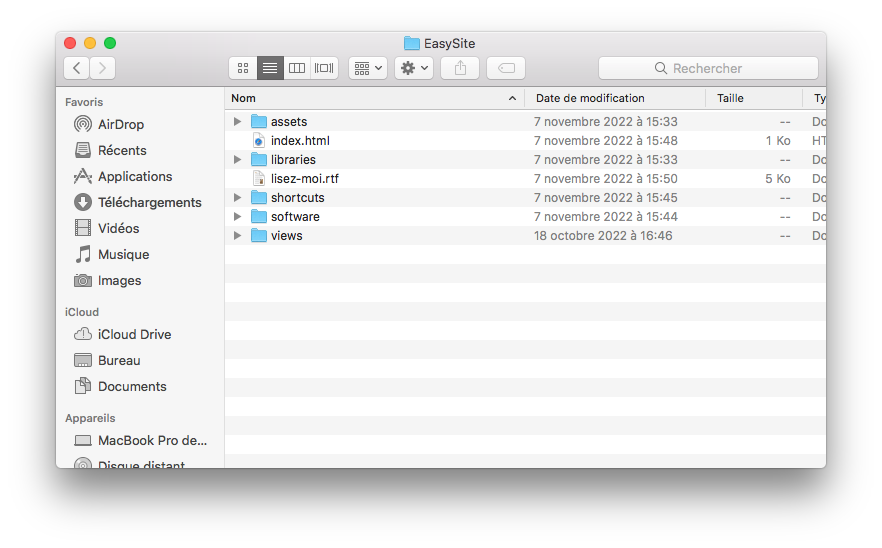
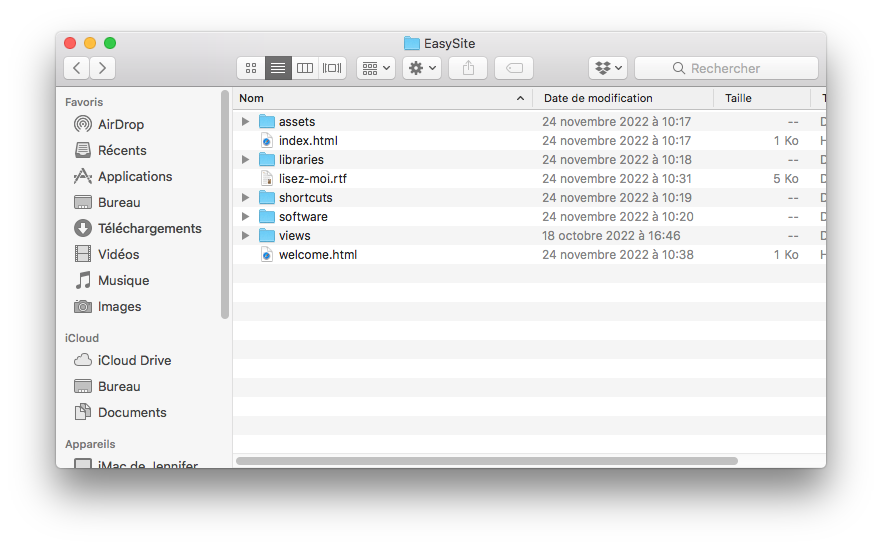
Update official website

diff --git a/index.html b/index.html
@@ -32,32 +32,36 @@
             <h2>Le futur du web</h2>
             <img src="assets/img/banniere.png" id="homeImage">
             <div></div>
-            <a href="https://github.com/enioaiello/easysite/" target="_blank" class="button" title="Consulter le Github">Voir sur Github</a>
-            <p>Si vous avez besoins d'aide, cliquez <a href="https://discord.gg/h5y2bZwH2B" target="_blank" class="link" title="Rejoindre le Discord">ici</a> pour rejoindre le Discord et obtenir de l'aide auprès de la communauté !</p>
+            <a href="https://github.com/enioaiello/easysite/" target="_blank" class="button" title="Consulter le Github">Voir sur Github</a> <a href="views/download.html" class="button" title="Télécharger maintenant">Télécharger</a> <a href="views/support.html" class="button" title="Contacter le support et obtenir de l'aide">Support</a>
             <hr>
             <h2>Template de base avancée</h2>
             <h3>Disponible pour Windows, macOS et Linux !</h3>
             <img src="assets/img/image1.png">
+            <h4>Avec des dossiers complets</h4>
             <hr>
             <h2>Logiciels de développeurs web intégrés</h2>
             <h3>Disponible uniquement pour Windows !</h3>
             <img src="assets/img/image2.png">
+            <h4>Avec FastInstall pour installer automatiquement les logiciels</h4>
             <hr>
             <h2>Arborescence de fichiers simple</h2>
             <h3>Réorganisez ou utilisez cette arborescence comme bon vous semble !</h3>
             <img src="assets/img/image3.png">
+            <h4>Avec une arborescence complète et accessible de tous</h4>
             <hr>
             <h2>Bibliothèques intégrées</h2>
             <h3>Pour coder en toute simplicité !</h3>
             <img src="assets/img/image4.png">
+            <h4>Pour avoir du code déjà écrit</h4>
             <hr>
             <h2>Liens rapides intégrés</h2>
             <h3>Pour avoir accès à plus d'outils plus simplement !</h3>
-            <img src="assets/img/non-defini.png" class="unavailable">
+            <img src="assets/img/image5.png">
+            <h4>Des outils pour apprendre le Web !</h4>
             <hr>
             <h2>Vous êtes prêt ?</h2>
             <h3>Téléchargez ce projet libre et disponible pour tous !</h3>
-            <a href="views/download.html" target="_blank"class="button" title="Télécharger maintenant">Télécharger</a>
+            <a href="views/download.html" class="button" title="Télécharger maintenant">Télécharger</a>
             <h4>Version officielle | Release_X</h4>
         </main>
         <footer>

diff --git a/views/support.html b/views/support.html
@@ -32,11 +32,17 @@
         <h3>Besoins d'aide ? Nous sommes là pour vous !</h3>
         <hr>
         <div id="homeCenter">
-            <section>
+            <section id="leftSection">
                 <h2>Obtenir de l'aide via Discord</h2>
                 <a href="https://discord.gg/h5y2bZwH2B" target="_blank" class="button" title="Accéder au serveur Discord officiel">Contacter</a>
             </section>
+            <section id="rightSection">
+                <h2>Obtenir de l'aide par e-mail</h2>
+                <a href="mailto:eaiello@edenschool.fr" class="button" title="Contacter le support par e-mail">Contacter</a>
+            </section>
         </div>
+        <h3>Vous avez besoins d'aide avec votre code ?</h3>
+        <p>Vous pouvez regarder sur <strong>YouTube</strong>, <strong>Google</strong> des tutoriels détaillés ou vous pouvez consulter des documentations tels que <strong>Mozilla Developper Network</strong> pour en savoir plus avec une balise/fonction/feuille de style. Vous pouvez également faire vérifier votre code par <a href="https://validator.w3.org" target="_blank">W3C Validator</a></p>
     </main>
 <footer>
     <h3>© Enio Aiello</h3>

diff --git a/assets/css/style.css b/assets/css/style.css
@@ -105,3 +105,16 @@ section {
     width: 50%;
     display: inline-block;
 }
+
+#leftSection {
+    float: left;
+}
+
+#rightSection {
+    float: right;
+}
+
+p {
+    width: 80%;
+    margin: 0 auto;
+}
